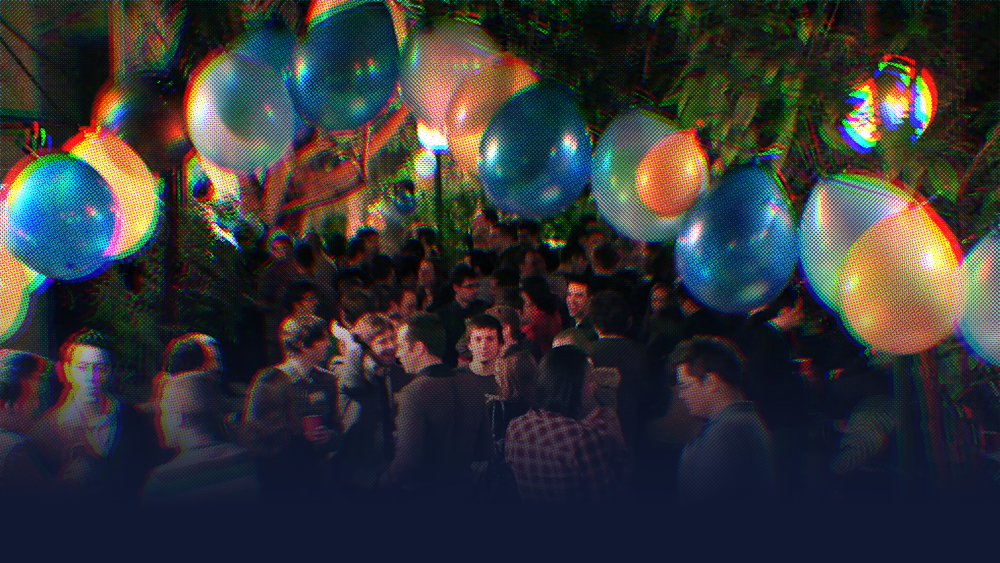
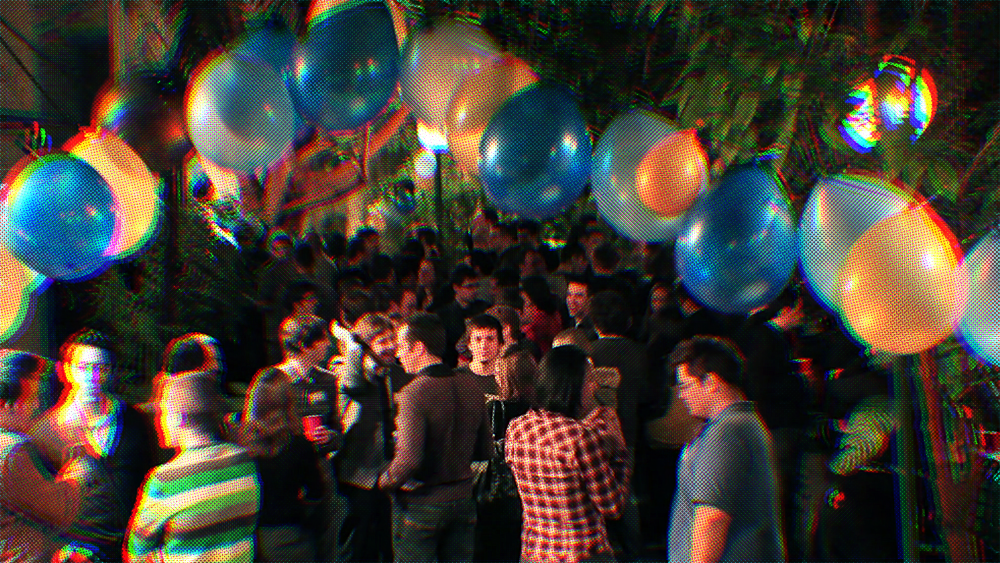
Changement couleur de fond Accueil (plus foncée)

Changed region(s): [[0.0, 0.5133, 1.0, 1.0], [0.775, 0.5435, 0.806, 0.5737]]

diff --git a/css/accueil.scss b/css/accueil.scss
@@ -1,4 +1,4 @@
-$fond: #101832;
+$fond: #090c16;
 $bleuFond: #1c2c5c;
 $blanc: #e3e3e3;
 $bleu: #2cd9ff;
@@ -25,7 +25,7 @@ a:hover {
 
 //DEBUT CSS - - - MOBILE FIRST      -------------------------------------------------------------------------------------------------------------------------------
 
-body{
+body {
   background-color: $fond;
 }
 
@@ -89,7 +89,6 @@ nav {
 //DEBUT TABLETTE    --------------------------------------------------------------------------------------------------------------------------------------
 
 @media (min-width: 600px) {
-
   #navMobile,
   #checkNav {
     display: none;
@@ -129,21 +128,21 @@ nav {
       align-items: flex-end;
     }
   }
-  
+
   #infoBloc {
     width: 60vw;
     padding: 1em 4em 1em 1em;
     margin-left: 2em;
     position: relative;
   }
-  
+
   #infoBoutons {
     display: flex;
     flex-flow: column;
     position: absolute;
     right: -5.5em;
     top: 0;
-  
+
     button {
       background-color: $bleuFond;
       padding: 10px;
@@ -154,23 +153,21 @@ nav {
       letter-spacing: 0.08em;
       box-shadow: $boxBleu;
     }
-  
+
     button:hover {
       background-color: $fond;
     }
   }
-  
 }
 
 //FIN TABLETTE        ----------------------------------------------------------------------------------------------------------------------------------------------
 
 //DEBUT GRANDS ECRANS
 @media (min-width: 1200px) {
-
   #header {
     color: #fff;
     #barreDuHaut {
-        height: 55px;
+      height: 55px;
     }
     nav {
       display: flex;
@@ -198,61 +195,61 @@ nav {
       }
     }
 
-#caroussel {
-    height: 700px;
-    #caroussel-images {
+    #caroussel {
+      height: 700px;
+      #caroussel-images {
         height: 100%;
         ul {
-            height: 100%;
-            li {
-                height: 300px;
-
-            }
+          height: 100%;
+          li {
+            height: 300px;
+          }
         }
-    }
-}
-
-  #voirProjets {
-    display: flex;
-    justify-content: space-around;
-
-    div {
-      align-items: center;
-    }
-
-    h2 {
-      color: white;
-    }
-
-    button {
-      padding: 0.5em;
-      background-color: $bleu;
-      box-shadow: $bleuFond;
-    }
-
-    button h3 {
-      color: $bleuFond;
-    }
-
-    button a:hover {
-      color: $bleu;
-    }
-  }
-
-  #inscription {
-    div {
-      display: flex;
-      flex-direction: column;
-      float: left;
-
-      button {
-        justify-content: space-evenly;
       }
     }
 
-    img {
-      float: right;
+    #voirProjets {
+      display: flex;
+      justify-content: space-around;
+
+      div {
+        align-items: center;
+      }
+
+      h2 {
+        color: white;
+      }
+
+      button {
+        padding: 0.5em;
+        background-color: $bleu;
+        box-shadow: $bleuFond;
+      }
+
+      button h3 {
+        color: $bleuFond;
+      }
+
+      button a:hover {
+        color: $bleu;
+      }
     }
+
+    #inscription {
+      div {
+        display: flex;
+        flex-direction: column;
+        float: left;
+
+        button {
+          justify-content: space-evenly;
+        }
+      }
+
+      img {
+        float: right;
+      }
+    }
+  }
 }
-} }
 //FIN GRANDS ECRANS

diff --git a/pages/commun/footer-commun.vue b/pages/commun/footer-commun.vue
@@ -120,10 +120,10 @@ export default {};
 <style lang='scss'>
 section#footer {
   color: white;
-  background-color: #0b132b;
+  background-color: #090c16;
 
   #contact {
-    background-color: #1c2c5c;
+    background-color: #090c16;
     display: flex;
     flex-direction: column;
     background-image: url("/medias/images/halfTone/Halftone-Effect-Background_2.png");
@@ -131,7 +131,7 @@ section#footer {
     background-repeat: repeat-x;
 
     .information:nth-child(2) {
-      background-color: #0b132b;
+      background-color: #090c16;
       padding-top: 1em;
       padding-bottom: 1em;
     }
